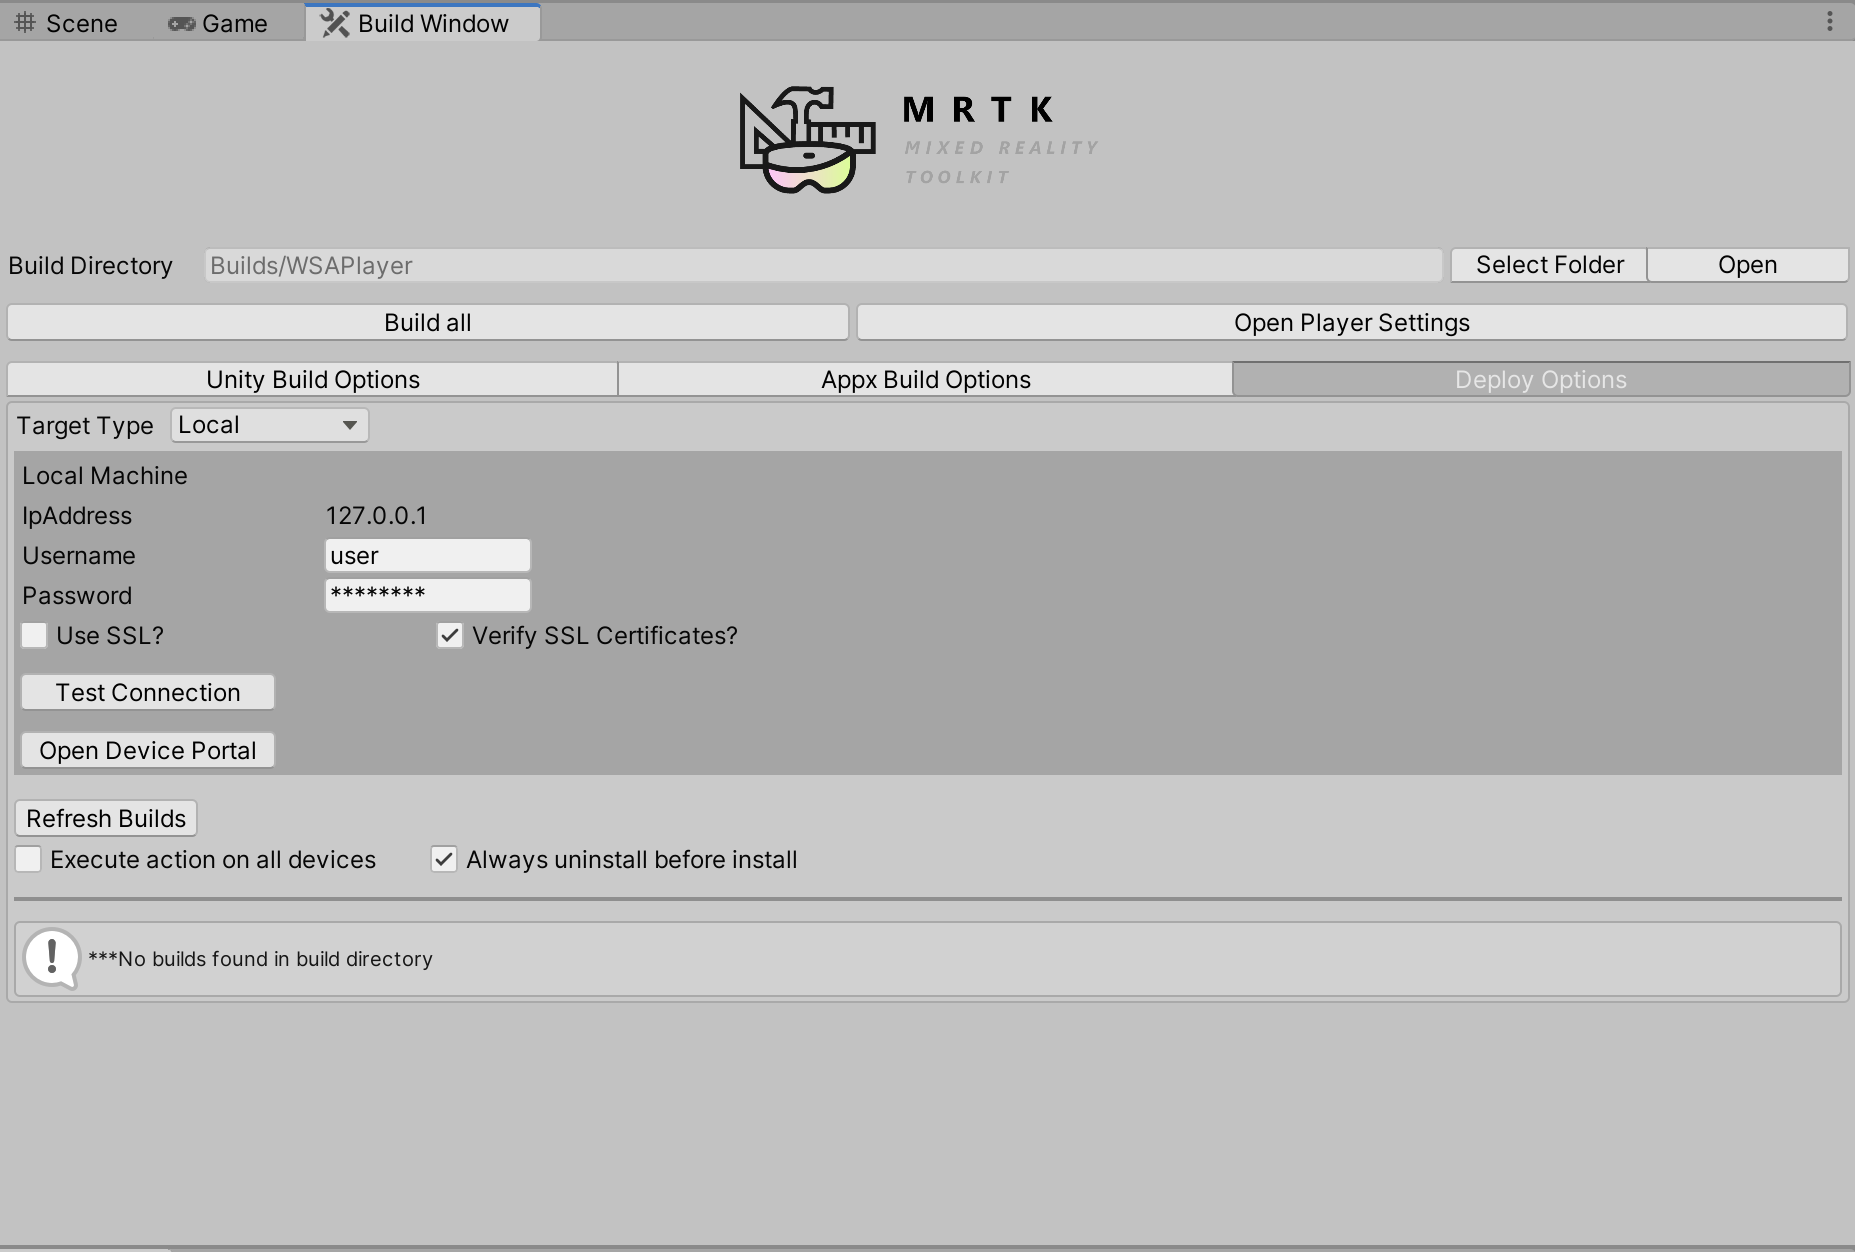
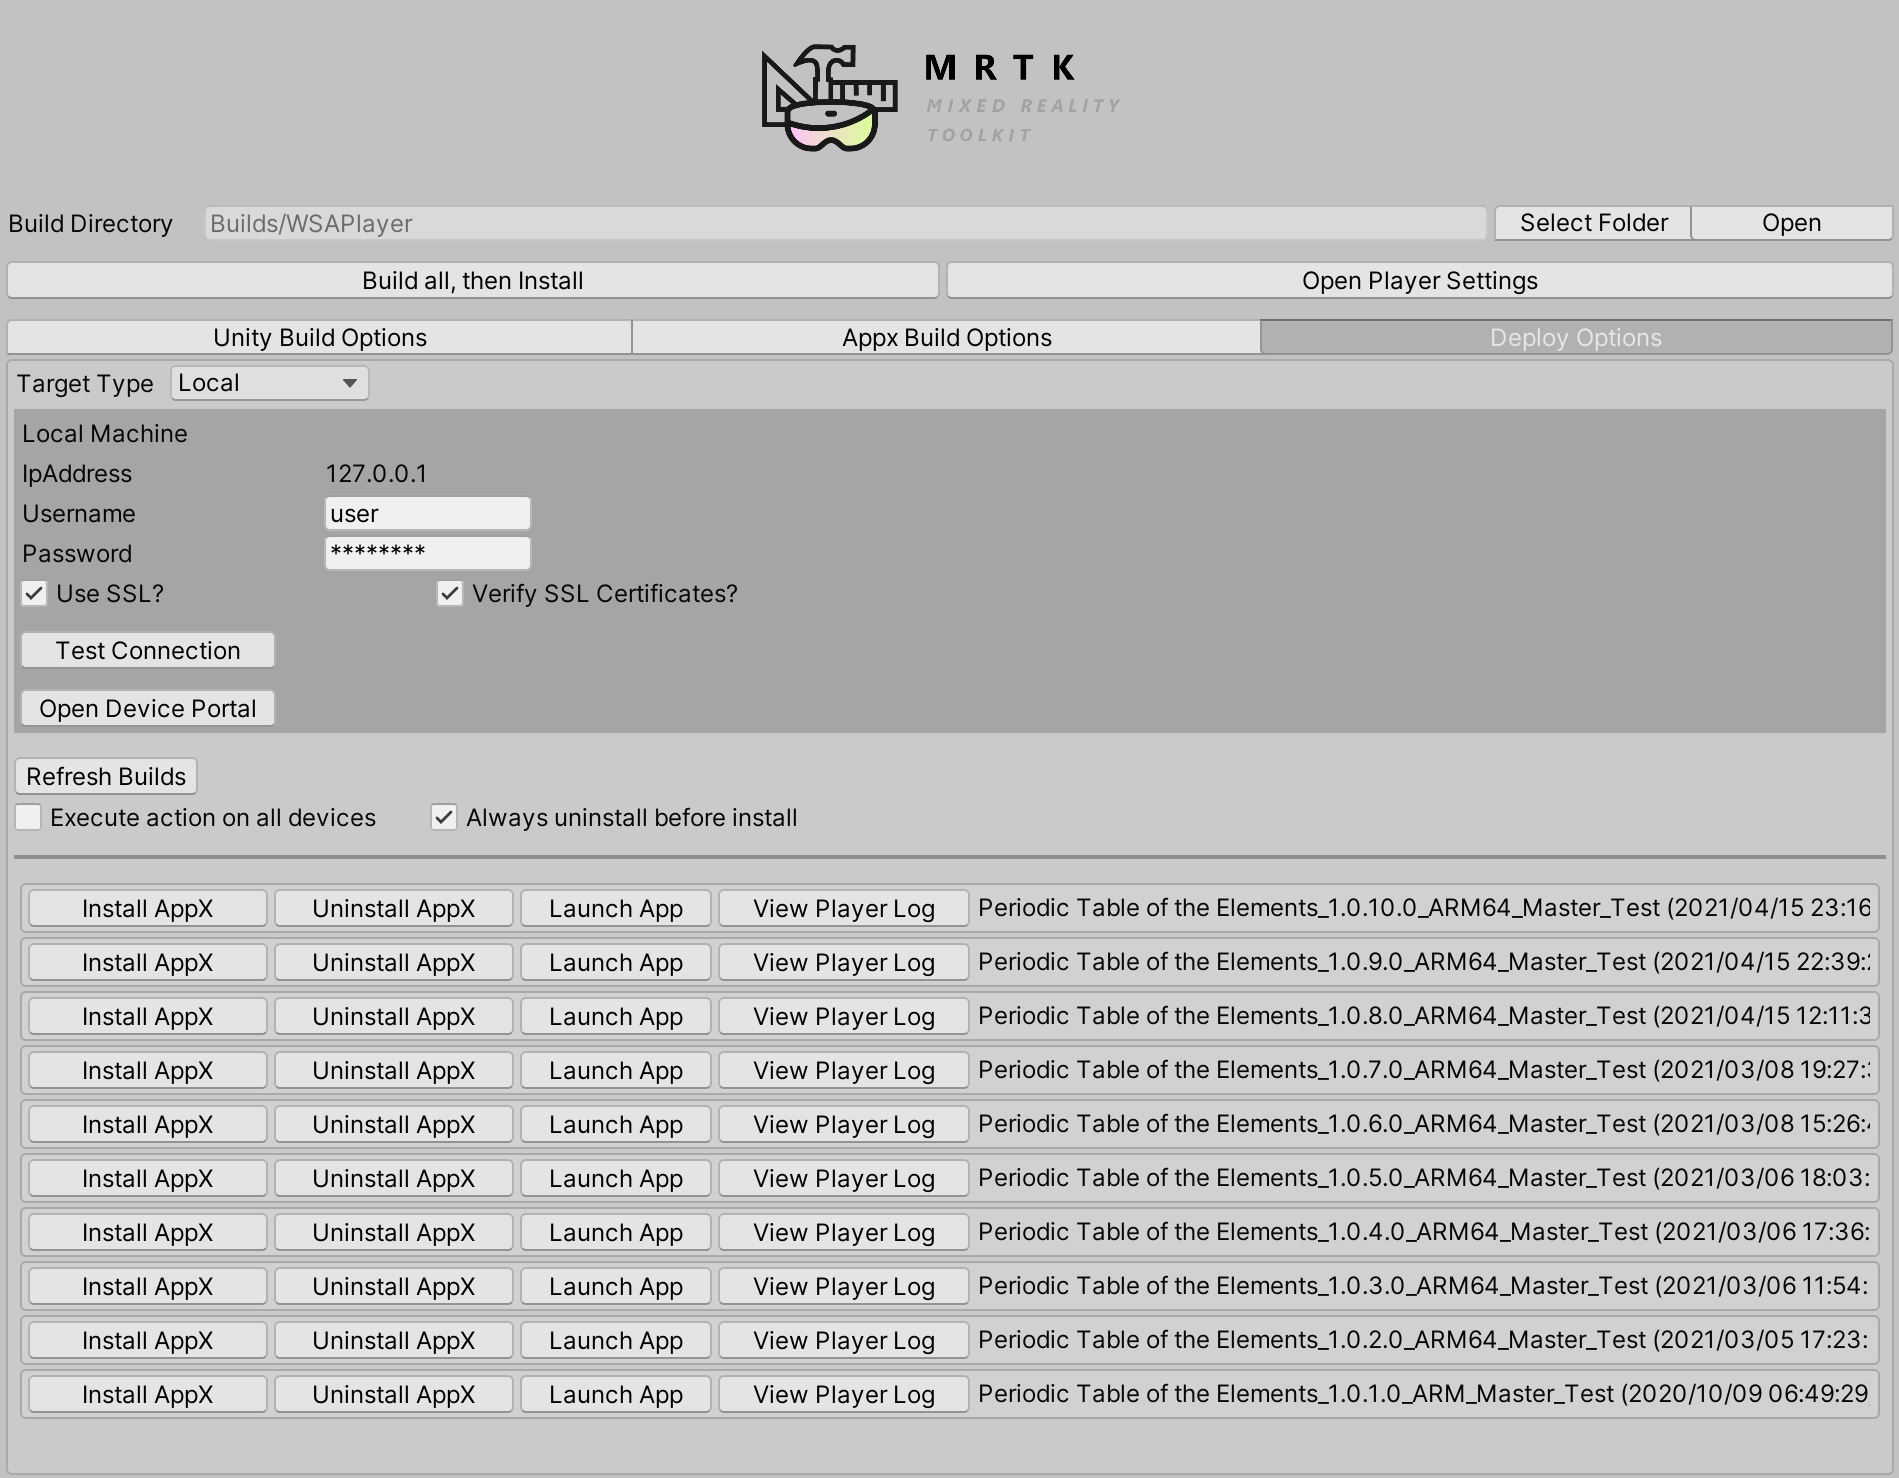
Image & text updates.

diff --git a/mrtk-unity/features/tools/build-window.md b/mrtk-unity/features/tools/build-window.md
@@ -13,15 +13,25 @@ keywords: Unity,HoloLens, HoloLens 2, Mixed Reality, development, MRTK, build, b
 MRTK's build window make it easy to build & deploy your MRTK-Unity projects. With a single button click, you can build Unity project and generate Visual Studio solution(.SLN), UWP App package(.APPX), and install the app package on the device. 
 
 
-
 ## Unity Build Options
 ![Build window - Unity Build Options](images/MRTK_BuildWindow1.png)
 
+These scenes are from the Unity Build Settings. You can change the target device type using the dropdown menu.
 
 ## Appx Build Options
 ![Build window - Appx Build Options](images/MRTK_BuildWindow2.png)
 
+This tab shows the configuration for the Visual Studio solution. To enabled HoloLens 2's eye-tracking input capability, check **Gaze Input Capability** option. 
+
+You can assign .glb file in the **3D App Launcher Model** field for custom 3D app launcher icon. See [3D app launcher design guideline](https://docs.microsoft.com/en-us/windows/mixed-reality/distribute/3d-app-launcher-design-guidance) for more information.
+
+By default, **Auto Increment** is checked in the Versioning Options. AppX versions will be automatically incremented.
+
 
 ## Deploy Options
 ![Build window - Deploy Options](images/MRTK_BuildWindow3.png)
+
+In this tab, you can connect to the device by entering username and password for the Device Portal. 
+
+On the bottom of the page, you can find list of the app packages that has been created. 
 
